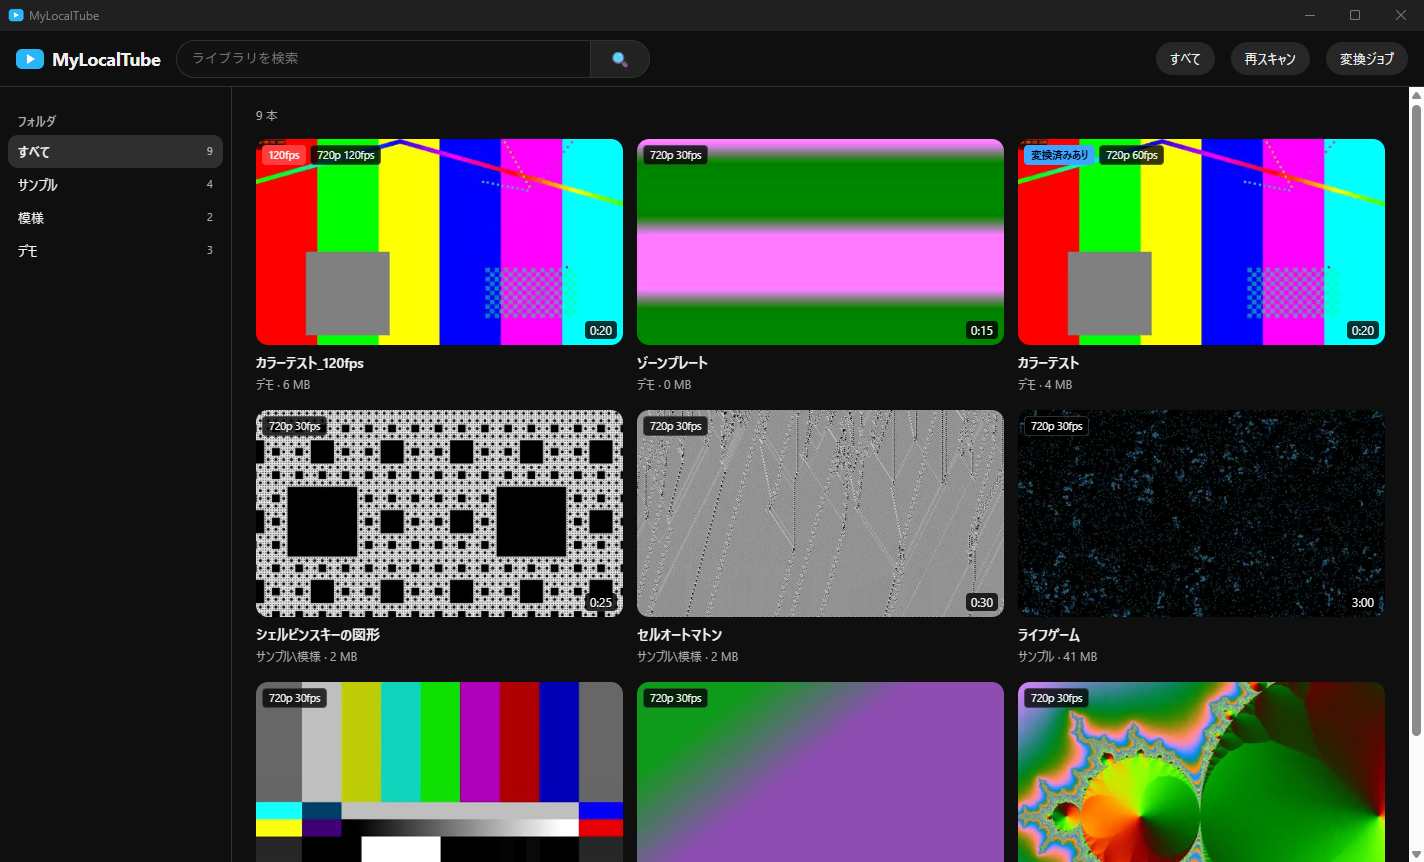
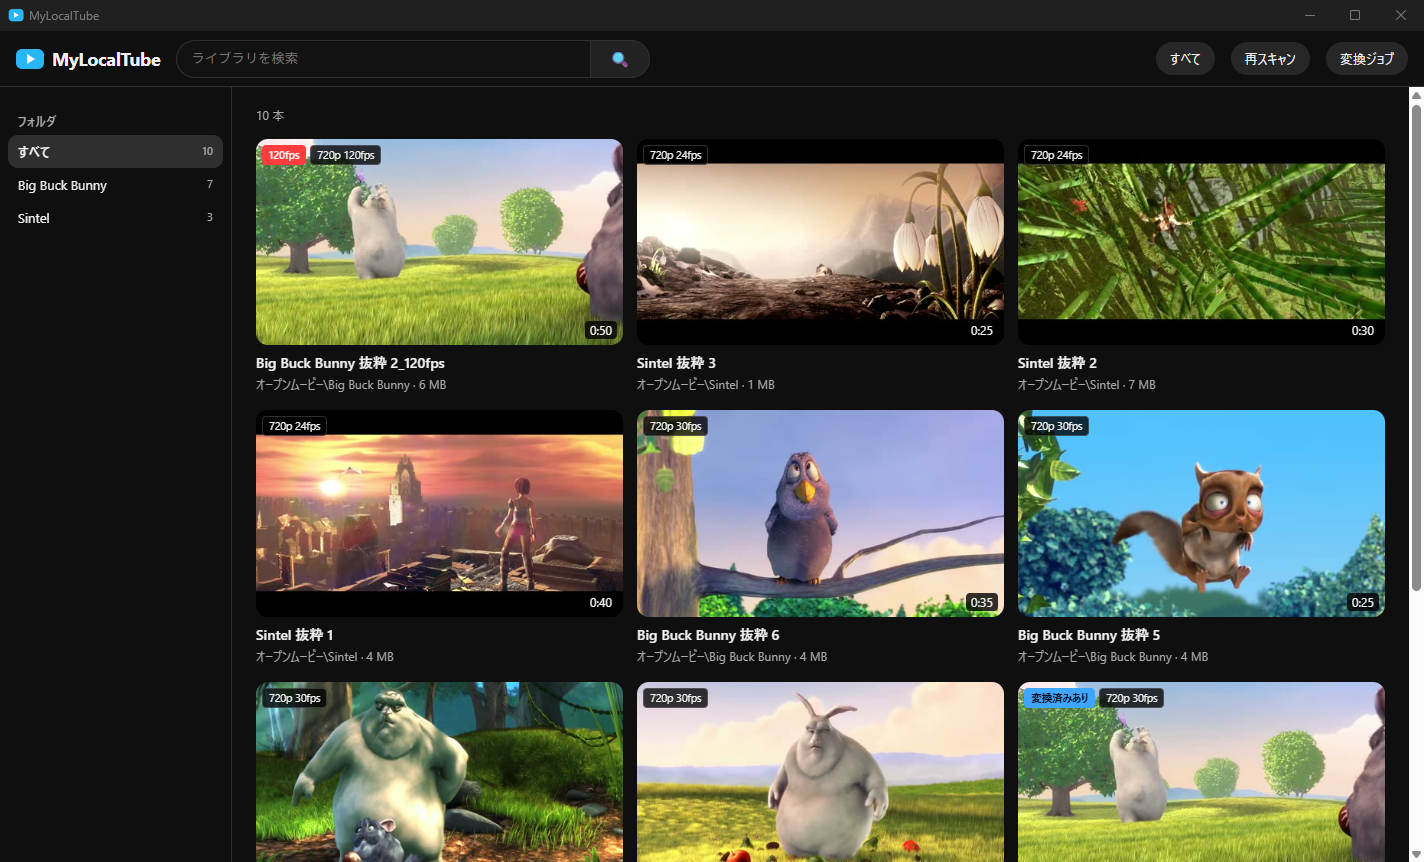
Use Blender open movies for README screenshots
Replace the synthetic ffmpeg footage with excerpts from Big Buck Bunny
and Sintel (Blender Foundation, CC BY 3.0). Credits are in the README
license section. Downloaded clips are cached under %TEMP%.

diff --git a/docs/make_screenshots.py b/docs/make_screenshots.py
@@ -1,7 +1,7 @@
 """README 用の画面写真（docs/images/*.png）を撮る。
 
-個人の動画が写り込まないよう、ffmpeg の合成映像（マンデルブロ・テストパターン等）で作った
-サンプル動画だけを並べた一時ライブラリで、専用のアプリ（使用中のアプリとは別の二重起動防止名・
+個人の動画が写り込まないよう、フリー素材（Blender Foundation のオープンムービー、CC BY）から
+切り出したサンプル動画だけを並べた一時ライブラリで、専用のアプリ（使用中のアプリとは別の二重起動防止名・
 ポート・データ置き場）を起動して撮る。撮影中は 30 秒ほどウィンドウが表示される。
 
     .venv\\Scripts\\python docs\\make_screenshots.py
@@ -30,30 +30,77 @@ LIB = WORK / "library"
 CDP_PORT = 9341
 WIN_W, WIN_H = 1440, 870
 
-# (フォルダ, 名前, lavfi の映像ソース, 秒数)
+# 素材: Blender Foundation のオープンムービー（どちらも CC BY 3.0）
+#   Big Buck Bunny  (c) copyright 2008, Blender Foundation / www.bigbuckbunny.org
+#   Sintel          (c) copyright Blender Foundation | durian.blender.org
+# Sintel は必要な部分だけを ffmpeg で切り出す。Big Buck Bunny は zip でしか配られていないので、
+# 初回だけ丸ごと（約 275MB）落としてキャッシュする。
+SINTEL = "https://download.blender.org/durian/movies/Sintel.2010.1080p.mkv"
+BBB_ZIP = "https://download.blender.org/demo/movies/BBB/bbb_sunflower_1080p_30fps_normal.mp4.zip"
+BBB = "BBB"          # 下で実際のパスに置き換える
+# (フォルダ, 名前, 素材, 開始秒, 秒数, fps（None ならそのまま）)
+# サムネイルは動画の 18% の位置から作られるので、見せたい場面 − 秒数×0.18 を開始にしている
 SAMPLES = [
-    ("サンプル", "マンデルブロ集合をゆっくり拡大", "mandelbrot=s=1280x720:rate=30", 40),
-    ("サンプル", "グラデーションの流れ", "gradients=s=1280x720:speed=0.02:rate=30", 95),
-    ("サンプル", "テストパターン（HD）", "smptehdbars=s=1280x720:rate=30", 12),
-    ("サンプル", "ライフゲーム", "life=s=1280x720:mold=10:rate=30:ratio=0.1:death_color=#1e2a3a:life_color=#29b6f6", 180),
-    ("サンプル\\模様", "セルオートマトン", "cellauto=s=1280x720:rule=110:rate=30", 30),
-    ("サンプル\\模様", "シェルピンスキーの図形", "sierpinski=s=1280x720:rate=30", 25),
-    ("デモ", "カラーテスト", "testsrc2=s=1280x720:rate=60", 20),
-    ("デモ", "ゾーンプレート", "zoneplate=s=1280x720:rate=30:kt2=2:ky=2", 15),
-    ("デモ", "カラーテスト_120fps", "testsrc2=s=1280x720:rate=120", 20),
+    ("オープンムービー\\Big Buck Bunny", "Big Buck Bunny 抜粋 1", BBB, 63, 40, None),
+    ("オープンムービー\\Big Buck Bunny", "Big Buck Bunny 抜粋 2", BBB, 111, 50, None),
+    ("オープンムービー\\Big Buck Bunny", "Big Buck Bunny 抜粋 3", BBB, 190, 30, None),
+    ("オープンムービー\\Big Buck Bunny", "Big Buck Bunny 抜粋 4", BBB, 362, 45, None),
+    ("オープンムービー\\Big Buck Bunny", "Big Buck Bunny 抜粋 5", BBB, 440, 25, None),
+    ("オープンムービー\\Big Buck Bunny", "Big Buck Bunny 抜粋 6", BBB, 14, 35, None),
+    ("オープンムービー\\Sintel", "Sintel 抜粋 1", SINTEL, 333, 40, None),
+    ("オープンムービー\\Sintel", "Sintel 抜粋 2", SINTEL, 375, 30, None),
+    ("オープンムービー\\Sintel", "Sintel 抜粋 3", SINTEL, 735, 25, None),
+    ("オープンムービー\\Big Buck Bunny", "Big Buck Bunny 抜粋 2_120fps", BBB, 111, 50, 120),  # バッジ用
 ]
+
+
+def _bbb_path():
+    """Big Buck Bunny を用意する（初回だけ zip を落として取り出す）。"""
+    import urllib.request
+    import zipfile
+    mp4 = CACHE / "bbb_sunflower_1080p_30fps_normal.mp4"
+    if not mp4.exists():
+        z = CACHE / "bbb_sunflower_1080p_30fps_normal.mp4.zip"
+        if not z.exists():
+            print("  downloading Big Buck Bunny (~275MB, first time only)...")
+            urllib.request.urlretrieve(BBB_ZIP, z)
+        with zipfile.ZipFile(z) as f:
+            f.extract(mp4.name, CACHE)
+    return str(mp4)
+
+
+# 切り出した素材の置き場。次回からは使い回す（毎回ダウンロードしない）
+CACHE = Path(tempfile.gettempdir()) / "mlt_screenshot_clips"
+
+
+def _duration(path):
+    import library
+    return (library.probe(path)[0] or 0) if path.exists() else 0
 
 
 def make_library():
     ffmpeg = str(config.FFMPEG)
-    for folder, name, src, sec in SAMPLES:
+    CACHE.mkdir(exist_ok=True)
+    for folder, name, url, start, sec, fps in SAMPLES:
+        if url == BBB:
+            url = _bbb_path()
+        clip = CACHE / f"{name}_{start}_{sec}_{fps}.mp4"   # 場面を変えたら取り直すよう、条件も名前に入れる
+        # 1280x720 にそろえる（シネスコの作品は上下に帯を付ける）
+        vf = "scale=1280:720:force_original_aspect_ratio=decrease,pad=1280:720:(ow-iw)/2:(oh-ih)/2"
+        if fps:
+            vf += f",fps={fps}"
+        for attempt in range(3):              # 途中で切断されて短いファイルになったら取り直す
+            if _duration(clip) >= sec * 0.95:
+                break
+            subprocess.run([ffmpeg, "-v", "error", "-y", "-ss", str(start), "-i", url, "-t", str(sec),
+                            "-vf", vf, "-c:v", "libx264", "-preset", "veryfast", "-crf", "26",
+                            "-c:a", "aac", "-ac", "2", str(clip)], check=False)
+        if _duration(clip) < sec * 0.95:
+            sys.exit(f"素材を取得できませんでした: {name}（{url}）")
         d = LIB / folder
         d.mkdir(parents=True, exist_ok=True)
-        out = d / f"{name}.mp4"
-        subprocess.run([ffmpeg, "-v", "error", "-y", "-f", "lavfi", "-i", f"{src},format=yuv420p",
-                        "-f", "lavfi", "-i", "sine=frequency=440:sample_rate=48000",
-                        "-t", str(sec), "-c:v", "libx264", "-preset", "veryfast", "-crf", "30",
-                        "-c:a", "aac", "-shortest", str(out)], check=True)
+        shutil.copy2(clip, d / f"{name}.mp4")
+        print(f"  clip: {name} ({_duration(clip):.0f}s)")
     print(f"sample library: {LIB}")
 
 
@@ -153,9 +200,9 @@ def shoot(window):
         cdp.js("closeMenu(); true")
 
         # 再生画面: 操作バーを出し、シークバーにカーソルを乗せた状態
-        cdp.js("V.muted = true; openVideo(state.videos.find(v => v.name.startsWith('マンデルブロ')).id); true")
+        cdp.js("V.muted = true; openVideo(state.videos.find(v => v.name === 'Big Buck Bunny 抜粋 2').id); true")
         wait_for(cdp, "V.readyState >= 3")
-        cdp.js("V.currentTime = 14; setBoost(1); true")
+        cdp.js("V.currentTime = 10; setBoost(1); true")
         time.sleep(2.5)
         x, y, w, h = cdp.box("#ytProg")
         cdp.move(x + w * 0.60, y + h / 2)     # 1回目は「乗った」だけで時刻表示が更新されないので2回動かす
@@ -175,7 +222,7 @@ def shoot(window):
         # フォルダへ移動のダイアログ（撮るだけで移動はしない）
         cdp.js("moveVideo(state.current); true")
         wait_for(cdp, "!!document.querySelector('.modal .dir')")
-        cdp.js("[...document.querySelectorAll('.modal .dir')].find(b => b.title.endsWith('模様')).click(); true")
+        cdp.js("[...document.querySelectorAll('.modal .dir')].find(b => b.title.endsWith('Sintel')).click(); true")
         time.sleep(0.6)
         printwindow(hwnd, OUT / "move.png")
         cdp.js("document.querySelector('.modal [data-a=cancel]').click(); true")

diff --git a/docs/DEVELOPMENT.md b/docs/DEVELOPMENT.md
@@ -7,15 +7,20 @@
 | `images/*.png` | README に載せる画面写真（一覧・⋮メニュー・再生画面・⚙設定・フォルダへ移動） |
 | `make_screenshots.py` | 上の写真を撮り直すスクリプト |
 
-写真には **個人の動画を写さない**。`make_screenshots.py` は ffmpeg の合成映像（マンデルブロ・テストパターン等）で
-サンプル動画を作り、一時フォルダをライブラリにした専用のアプリ（使用中のアプリとは別の二重起動防止名・ポート・
-データ置き場）を起動して、WebView2 の開発者ツール用プロトコルで操作し PrintWindow で撮る。
+写真には **個人の動画を写さない**。`make_screenshots.py` はフリー素材（Blender Foundation のオープンムービー
+Big Buck Bunny・Sintel。どちらも CC BY 3.0。クレジットは README）を切り出してサンプル動画を作り、
+一時フォルダをライブラリにした専用のアプリ（使用中のアプリとは別の二重起動防止名・ポート・データ置き場）を起動して、WebView2 の開発者ツール用プロトコルで操作し PrintWindow で撮る。
 
 ```bat
 .venv\Scripts\python docs\make_screenshots.py
 ```
 
 撮影中は 30 秒ほどウィンドウが表示される。音は出さない（ミュート）。
+素材は初回だけダウンロードする（Big Buck Bunny は zip 配布のため約 275MB）。切り出した動画は
+`%TEMP%\mlt_screenshot_clips` にキャッシュして次回から使い回す。
+
+素材を選ぶときの注意: 気味の悪い映像（合成図形・シュールな作風）は避け、明るく親しみやすい場面にする。
+ライセンスがあいまいな素材（CC BY と CC BY-SA の情報が食い違うもの等）は使わない。
 
 ## 2. 現在の問題点
 

diff --git a/README.md b/README.md
@@ -22,7 +22,7 @@ A Windows desktop app that plays your local video folders in a YouTube-like UI (
 | **⋮ メニュー（カードの右下・右クリック）** | **フォルダへ移動** |
 | ![⋮ メニュー](docs/images/menu.png) | ![フォルダへ移動](docs/images/move.png) |
 
-<sub>写真の動画はすべて ffmpeg で作ったサンプル映像（`docs/make_screenshots.py` で撮り直せる）。</sub>
+<sub>写真の映像は Blender Foundation のオープンムービー（Big Buck Bunny・Sintel、CC BY 3.0）の抜粋。クレジットは下の「ライセンス」。`docs/make_screenshots.py` で撮り直せる。</sub>
 
 ## できること
 
@@ -127,3 +127,10 @@ launcher\build.cmd
 ## ライセンス
 
 MIT（`LICENSE`）。YouTube は Google LLC の商標です。本プロジェクトは YouTube / Google とは関係ありません。
+
+README の画面写真に写っている映像（コードではなく写真のみ）:
+
+- *Big Buck Bunny* — (c) copyright 2008, Blender Foundation / [www.bigbuckbunny.org](https://peach.blender.org/) — [CC BY 3.0](https://creativecommons.org/licenses/by/3.0/)
+- *Sintel* — (c) copyright Blender Foundation / [durian.blender.org](https://durian.blender.org/) — [CC BY 3.0](https://creativecommons.org/licenses/by/3.0/)
+
+写真では一部を切り出し、1280x720 に縮小・余白を追加している。
